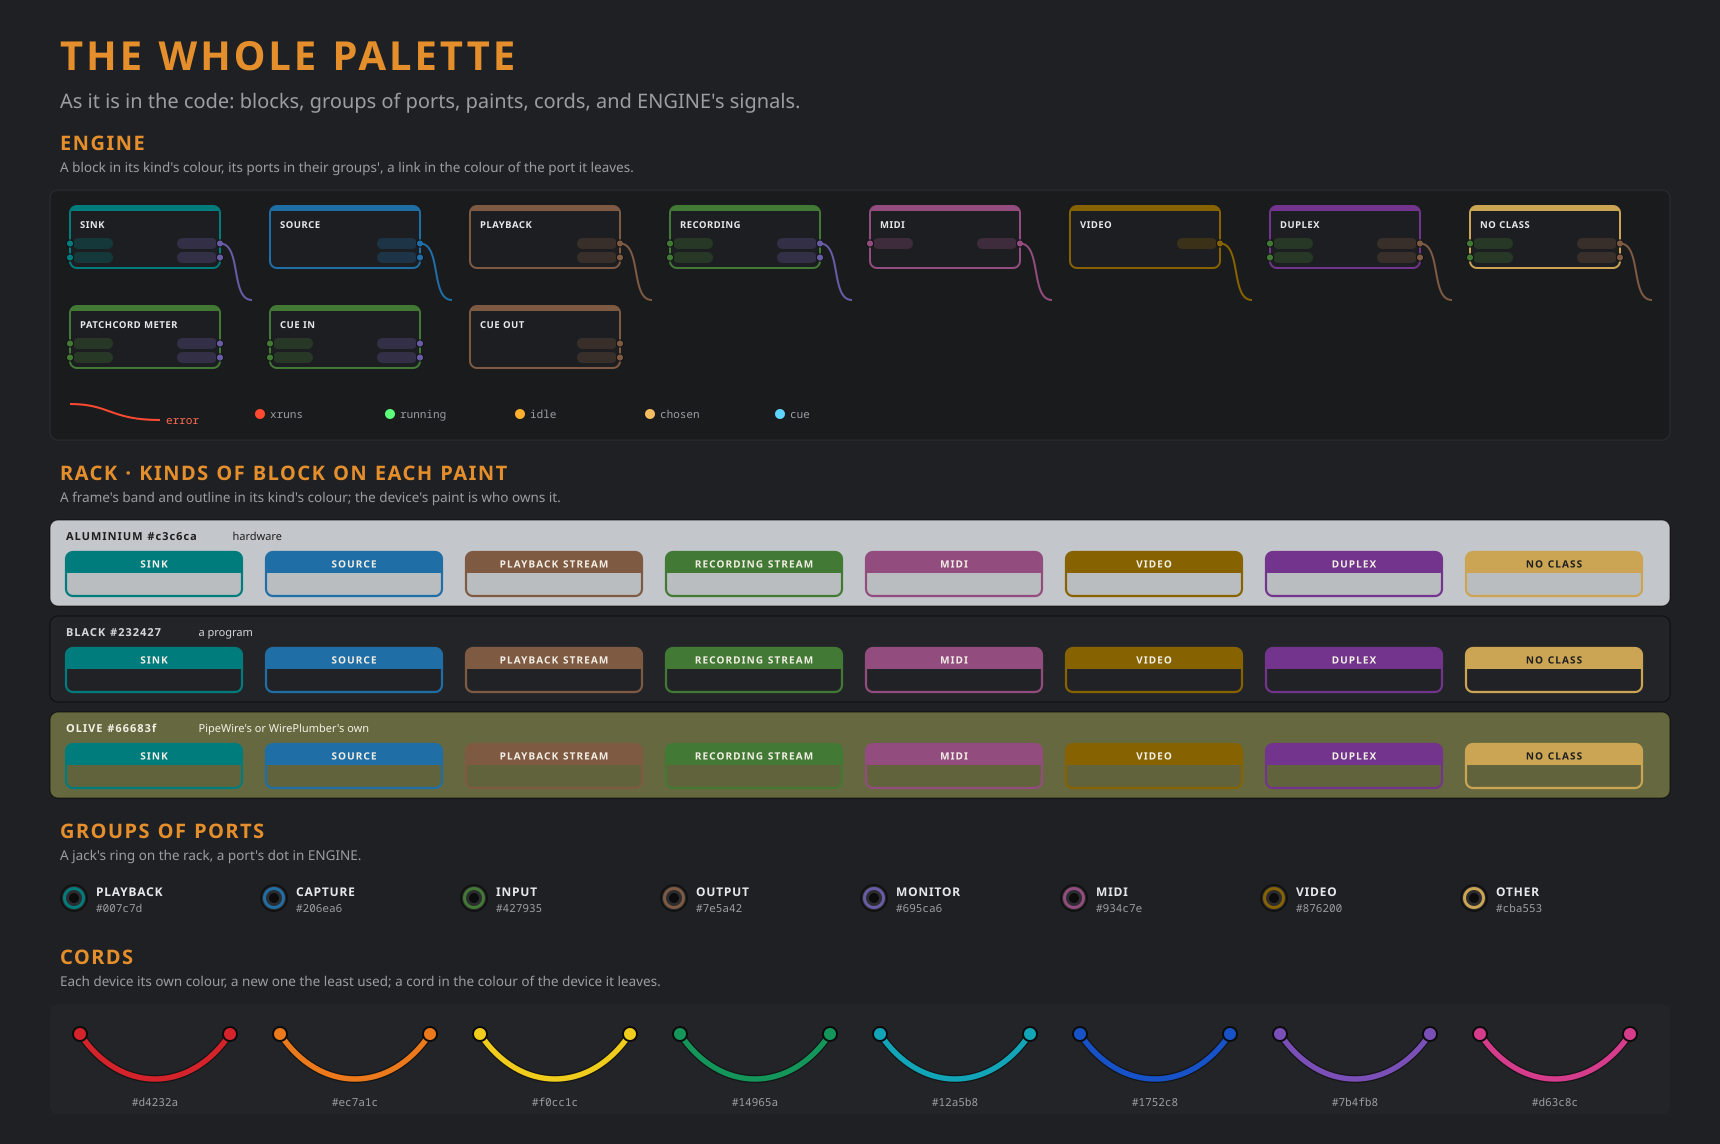
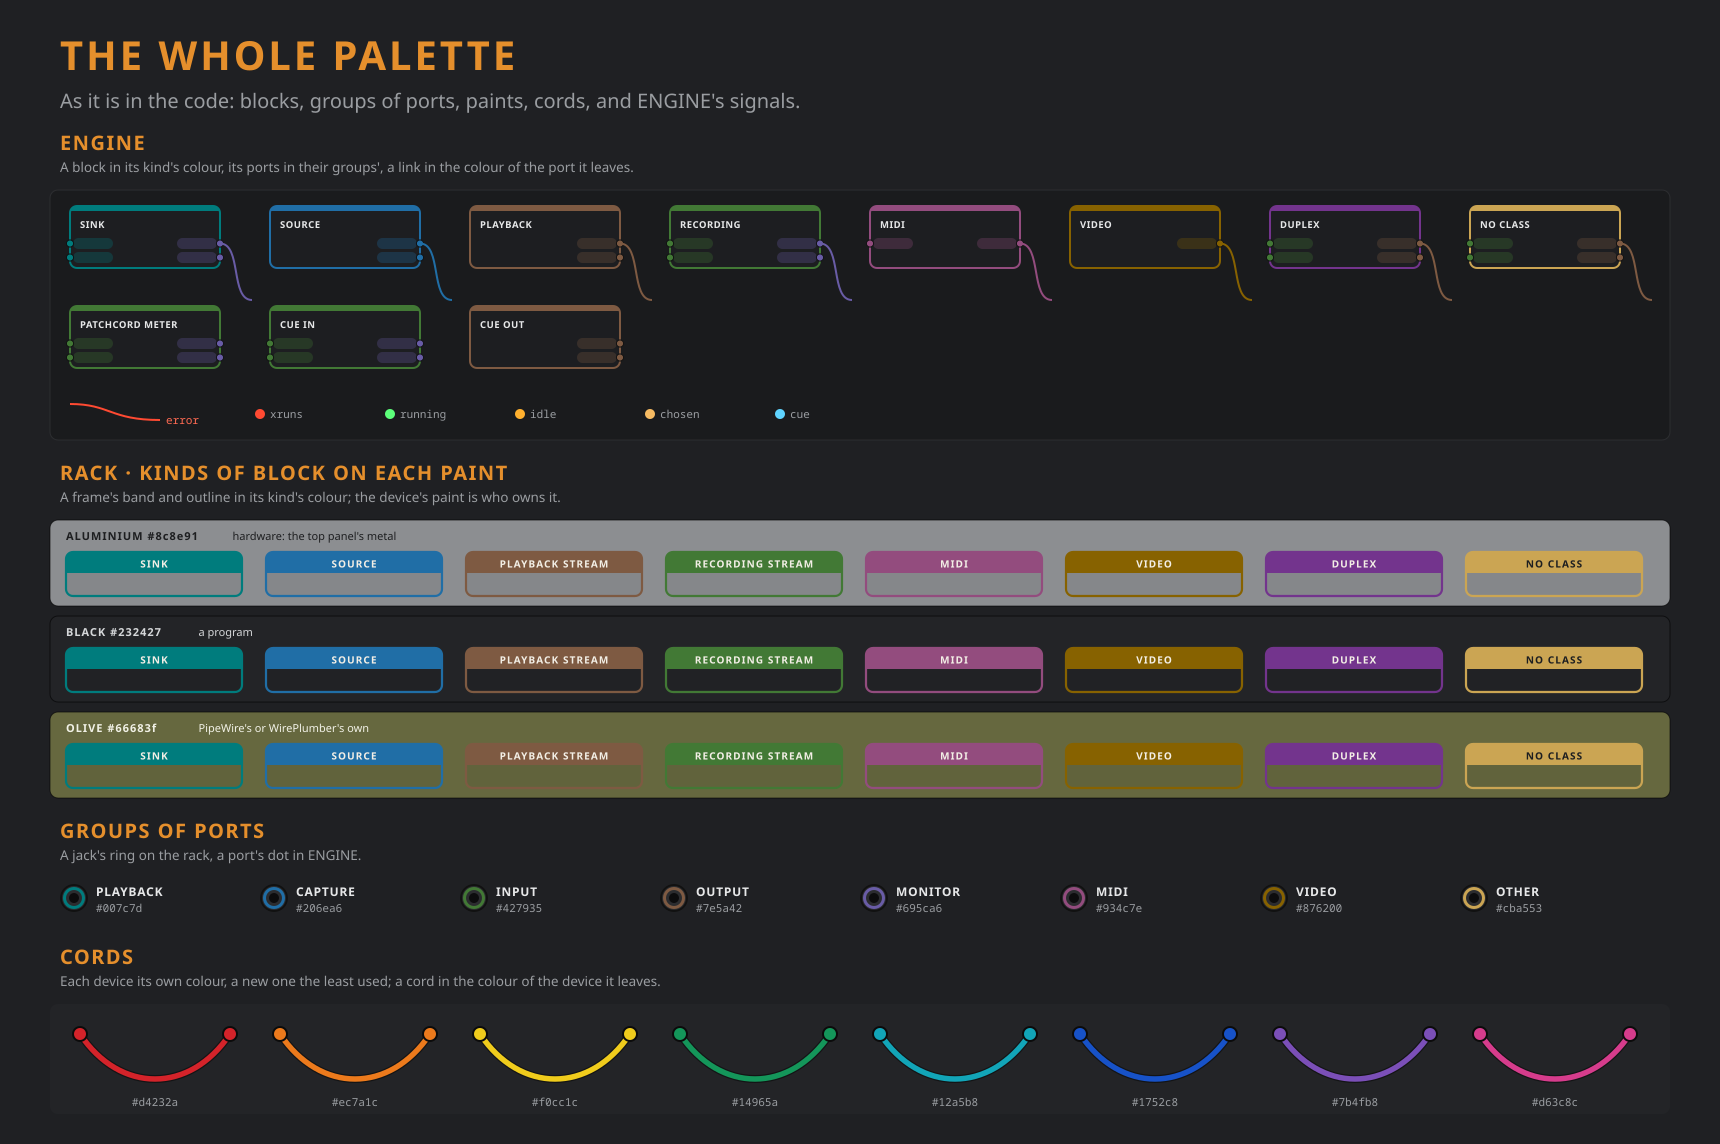
feat: hardware in the top panel's painted metal, on the desk and in the rack
A device of hardware was aluminium #C3C6CA; it is now the top panel's own paint, #8C8E91 with
its texture, as the MIXER mockup has it. Programs stay black, PipeWire's own olive.

Changed region(s): [[0.0308, 0.4283, 0.986, 0.5507]]

diff --git a/docs/design/apps/palette.py b/docs/design/apps/palette.py
@@ -14,7 +14,7 @@ KINDS = [("SINK", "#007c7d"), ("SOURCE", "#206ea6"), ("PLAYBACK STREAM", "#7e5a4
 GROUPS = [("PLAYBACK", "#007c7d"), ("CAPTURE", "#206ea6"), ("INPUT", "#427935"), ("OUTPUT", "#7e5a42"),
           ("MONITOR", "#695ca6"), ("MIDI", "#934c7e"), ("VIDEO", "#876200"), ("OTHER", "#cba553")]
 # a device's paint (face::fin): base, print
-PAINTS = [("ALUMINIUM", "hardware", "#c3c6ca", "#1d1e20"), ("BLACK", "a program", "#232427", "#d5d7d9"),
+PAINTS = [("ALUMINIUM", "hardware: the top panel's metal", "#8c8e91", "#1d1e20"), ("BLACK", "a program", "#232427", "#d5d7d9"),
           ("OLIVE", "PipeWire's or WirePlumber's own", "#66683f", "#f1f1e6")]
 # the cords: each device its own (graph::PALETTE)
 CORDS = ["#d4232a", "#ec7a1c", "#f0cc1c", "#14965a", "#12a5b8", "#1752c8", "#7b4fb8", "#d63c8c"]

diff --git a/src/ui/face.rs b/src/ui/face.rs
@@ -342,7 +342,8 @@ fn fin(f: Finish) -> Fin {
     match f {
         // ADR 0014 (docs/design/apps/paints.py, variant D): one paint a kind of device, light,
         // dark and in between, so none passes for another
-        Finish::Aluminium => Fin { base: "#c3c6ca", paint: true, noise: 0.0, print: "#1d1e20" },
+        // (hardware in the top panel's own painted metal, 2026-11-23)
+        Finish::Aluminium => Fin { base: "#8c8e91", paint: true, noise: 0.0, print: "#1d1e20" },
         Finish::Black => Fin { base: "#232427", paint: false, noise: 0.9, print: "#d5d7d9" },
         Finish::Olive => Fin { base: "#66683f", paint: false, noise: 0.7, print: "#f1f1e6" },
     }

diff --git a/README.md b/README.md
@@ -147,7 +147,7 @@ what goes out, after its volume or gain).
 | OUTPUT 1, OUTPUT 2… | an app with several streams of a kind (Teams in a call records on two and plays on six) is one device with a numbered frame for each, each with its own controls and meter |
 | Units | up to four frames side by side; more make the device two or three units high, the frames spread evenly (eight: two units of four), inputs first and outputs last, vents where a unit has nothing to show |
 | Colours (K) | a frame's band and outline in its block's kind, as in ENGINE: a sink teal, a source blue, a playback stream brown, a recording stream green, MIDI plum, video ochre, a duplex block magenta, a node without a class sand; or plain frames. A jack's ring is what its port is for, either way: a sink's input teal, a source's output blue, a monitor violet, any other input green and output brown, MIDI plum, video ochre, a port of a format Patchcord doesn't know sand |
-| Paint | who owns the device: hardware aluminium, a program black, a node of PipeWire's or WirePlumber's own (a MIDI bridge) olive |
+| Paint | who owns the device: hardware the top panel's painted metal, a program black, a node of PipeWire's or WirePlumber's own (a MIDI bridge) olive |
 | HIDE key | the struck-through eye at the left of the keys under a device's screen, on every device (or H over it), hides a device without cords; with cords it is dimmed. Hidden devices stay hidden after a restart and come back by themselves when something connects to them |
 | HIDDEN key | the eye on the top panel (or H over the desk), with how many are hidden: click one to show it again. It also lists, dimmed and marked SYSTEM, what Patchcord always leaves out: other programs' level meters and its own, and the plumbing behind a Bluetooth headset's MIC |
 

diff --git a/docs/decisions/0014-a-frame-is-a-block.md b/docs/decisions/0014-a-frame-is-a-block.md
@@ -62,7 +62,8 @@ blocks of their kind like any (their PATCHCORD tag says whose). The cue's blue s
 kept on. Dummy-Driver and Freewheel-Driver have no class: NO CLASS, like any (no grey of their own).
 
 **A device's paint is who owns it**, one paint a kind, lightness first so none passes for another:
-HARDWARE aluminium `#C3C6CA` (print `#1D1E20`), PROGRAM black `#232427` (print `#D5D7D9`), a NODE
+HARDWARE aluminium `#C3C6CA` (print `#1D1E20`; since 2026-11-23 the top panel's own painted metal
+`#8C8E91`, the same on the desk, in the rack and in MIXER), PROGRAM black `#232427` (print `#D5D7D9`), a NODE
 of PipeWire's or WirePlumber's olive `#66683F` (print `#F1F1E6`).
 
 **The frame**, as the face draws it, with these changes:
